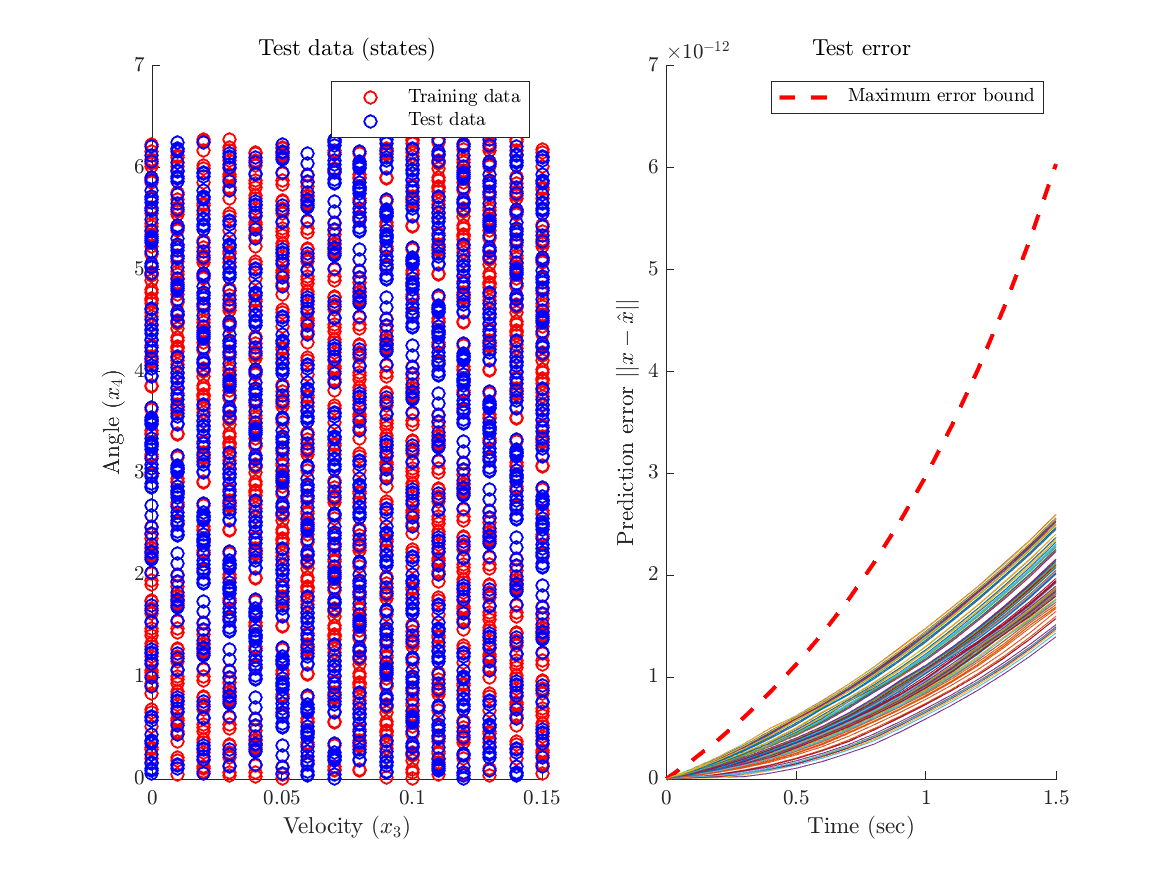
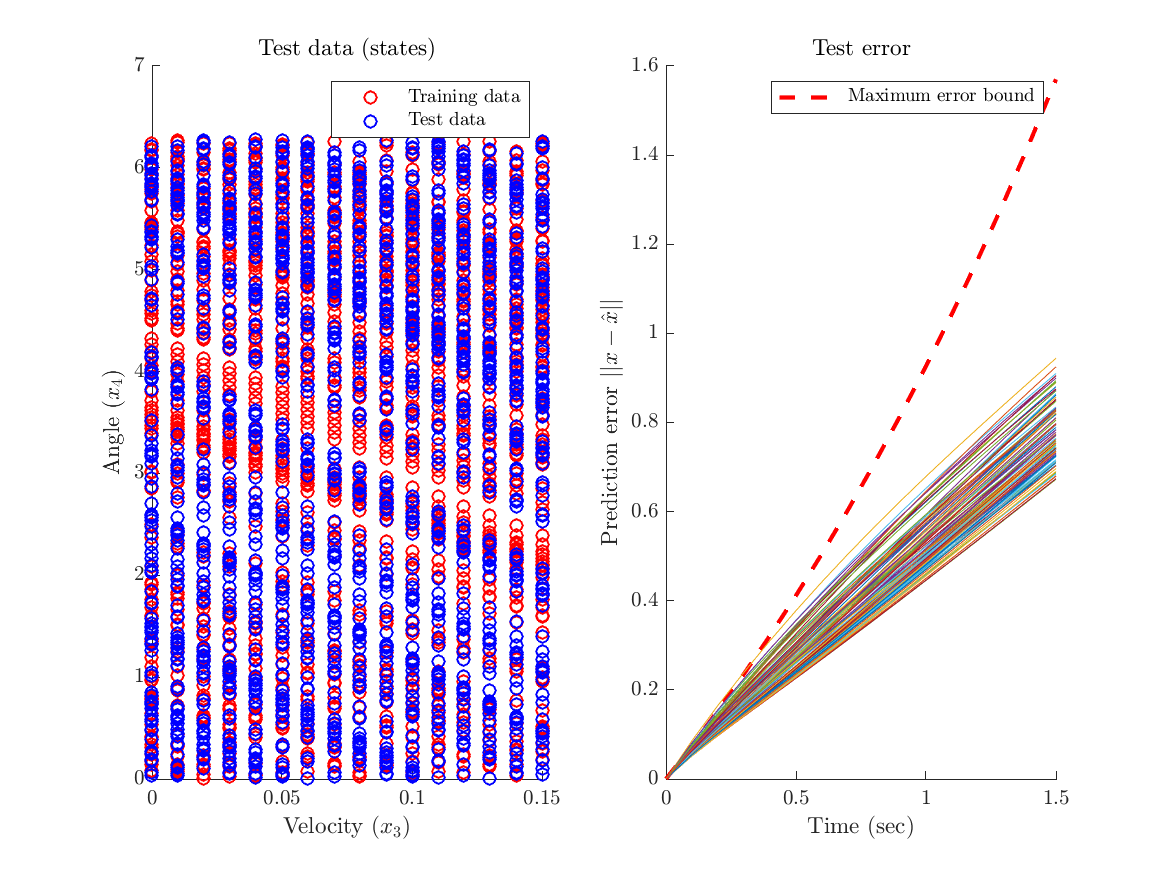
Debug

diff --git a/dubin_learning.m b/dubin_learning.m
@@ -11,15 +11,17 @@ global Ts T_max vm rm am x_bdry
 Ts = 0.1;                                           % Sampling interval
 T_max = 2;
 vm = 0.15;                                          % Maximum velocity
-rm = 3*pi/2;                                        % Maximum yaw rate
+rm = 0.3*3*pi/2;                                        % Maximum yaw rate
 am = 0.1;                                           % Maximum acceleration
+u_lim = [-am am; -rm, rm];
 x_bdry = [-1.6 1.6;-1 1;vm vm;0 2*pi];              % State constraints
 ts = 0.02;
-N_max = ceil(vm/am/Ts);                             % Maximum backup controller horizon
+N_max = ceil(vm/am/Ts)+1;                           % Maximum backup controller horizon
 
 affine_dynamics = @(x) dubin(x);                    % System dynamics, returns [f,g] with x_dot = f(x) + g(x)u
                                                     % State is defined as x = [X,Y,v,theta], u = [a,r]
-backup_controller = @(x) [-am*sign(x(3));rm];        % Backup controller (max brake and max turn)
+backup_controller = @(x) [-am*sign(x(3));rm];       % Backup controller (max brake and max turn rate)
+backup_dynamics = @(x) cl_dynamics(x, affine_dynamics, backup_controller);
 controller_process = @(u) u;
 stop_crit1 = @(t,x)(abs(x(3))<=0);                  % Stop if velocity is zero
 sim_dynamics = @(x,u) dubin_sim(x,u);               % System dynamics used for simulation
@@ -28,9 +30,12 @@ initial_condition = @() x_bdry(:,1)+...
     (x_bdry(:,2)-x_bdry(:,1)).*rand(4,1);           % Sample random initial value of x inside x_bdry
 
 %Koopman learning parameters:
-dubin_dictionary;                                   % Generate dictionary for Dubin's car system
+%dubin_dictionary;                                  % Generate dictionary for Dubin's car system
 func_dict = @(x) dubin_D(x(1),x(2),x(3),x(4));      % Function dictionary, returns [D,J] = [dictionary, jacobian of dictionary]
 n_samples = 100;                                    % Number of initial conditions to sample for training
+gather_data = false;
+tune_fit = false;
+fname = 'dubin';
 
 %Collision avoidance experiment parameters:
 global T_exp obs r
@@ -38,7 +43,7 @@ x0 = [0;0;vm;0];                                    % Initial condition for expe
 x_des = [1;0;0;0];                                  % Desired state for legacy controller
 mpc_horizon = 20;                                   % Time horizon of legacy controller
 legacy_controller = @(x) MIQP_MPC_v3(x,x_des,20);   % Legacy controller (MPC)
-options = qpOASES_options('printLevel',0);          % Solver options for supervisory controller
+options = optimoptions('quadprog','Display','none');% Solver options for supervisory controller
 T_exp = 10;                                         % Experiment length
 alpha = 2;                                          % CBF strengthening parameter
 obs = [0.5;0];                                      % Center of circular obstacle
@@ -46,10 +51,30 @@ r = 0.05;                                           % Radius of circular obstacl
 barrier_func = @(x) round_obs(x,obs,r);             % Barrier function
 
 %% Learn approximated discrete-time Koopman operator:
+if gather_data == true
+    [T_train, X_train] = collect_data(sim_dynamics, sim_process, backup_controller, controller_process, stop_crit1, initial_condition, n_samples, ts); 
+    plot_training_data(X_train,n_samples)
 
-[T_train, X_train] = collect_data(sim_dynamics, sim_process, backup_controller, controller_process, stop_crit1, initial_condition, n_samples, ts); 
-[K, C] = edmd(X_train, func_dict);
-K_pows = precalc_matrix_powers(N_max,K);
+    save(['data/' fname '_train_data.mat'], 'T_train','X_train');
+else
+    load(['data/' fname '_train_data.mat']);
+end
+
+[Z, Z_p] = lift_data(X_train, func_dict);
+Z_p = Z_p(2:end,:);
+if tune_fit == true
+    [K, obj_vals, lambda_tuned] = edmd(Z, Z_p, 'lasso', true, [],true, 5);
+    save(['data/' fname 'lambda_tuned.mat'], 'lambda_tuned');
+else
+    load(['data/' fname 'lambda_tuned.mat']);
+    [K, obj_vals, ~] = edmd(Z, Z_p, 'lasso', true, lambda_tuned,false, 0);
+end
+K = [zeros(1,size(Z,1)); K];
+K(1,1) = 1;
+
+%% Prepare necessary matrices and calculate error bounds:
+[~,~,C] = func_dict(X_train{1}(1,:));
+[K_pows, CK_pows] = precalc_matrix_powers(N_max,K,C);
 
 %L = calc_lipschitz(4,2, affine_dynamics, con1); 
 L = 0;  
@@ -66,10 +91,32 @@ plot_test_fit(X_train, X_test, K_pows, C, func_dict, error_bound);
 
 %% Evaluate Koopman based CBF safety filter:
 
-supervisory_controller = @(x,u0,N) koopman_qp_cbf_static(x, u0, N, affine_dynamics, barrier_func, alpha, func_dict, K_pows, C, options); 
+%supervisory_controller = @(x,u0,N) koopman_qp_cbf_static(x, u0, N, affine_dynamics, barrier_func, alpha, func_dict, K_pows, C, options); 
+supervisory_controller = @(x, u0, N) koopman_qp_cbf_obs(x, u0, N, affine_dynamics, backup_dynamics, barrier_func, alpha, func_dict, CK_pows, options, u_lim, 4, 2);
 [x_rec, u_rec, u0_rec] = run_experiment(x0, sim_dynamics, sim_process, legacy_controller, supervisory_controller); 
-plot_experiment(x_rec, u_rec, u0_rec, func_dict, K_pows, C);
+plot_experiment(x_rec, u_rec, u0_rec, func_dict, CK_pows);
 
 %% Save learned matrices to use in other experiments:
-close all;
+%close all;
 save('data/dubin_learned_koopman.mat','K_pows','C','N_max')
+
+%% Supporting functions:
+function plot_training_data(X,n_samples)
+    global Ts
+    n_plot = min(n_samples,100);
+    n_rows = 10;
+    n_cols = 10;
+    figure(1)
+    for i = 1 : n_plot
+        tt = 0:Ts:(size(X{i},1)-1)*Ts;
+        subplot(n_rows,n_cols,i)
+        hold on
+        plot(tt,X{i}(:,1),'r')
+        plot(tt,X{i}(:,2),'b')   
+        plot(tt,X{i}(:,3),':r')
+        plot(tt,X{i}(:,4),':b')
+        if i == 3
+            title('State data')
+        end
+    end
+end

diff --git a/utils/plot_experiment.m b/utils/plot_experiment.m
@@ -1,9 +1,9 @@
-function plot_experiment(x_rec, u_rec, u0_rec, func_dict, K_pows, C)
+function plot_experiment(x_rec, u_rec, u0_rec, func_dict, CK_pows)
 
     global Ts am T_exp obs r
     
     for i=1:round(T_exp/Ts)
-        figure(3)
+        figure(4)
         clf
         hold on
         draw_circle(obs(1),obs(2),r);
@@ -14,7 +14,7 @@ function plot_experiment(x_rec, u_rec, u0_rec, func_dict, K_pows, C)
         N = ceil(x(3)/am/Ts);
         xx = zeros(N,4);
         for j=1:N
-            xx(j,:)=(C*K_pows{j}*d)';
+            xx(j,:)=(CK_pows{j}*d)';
         end
         for j = 1:N
             plot(xx(j,1),xx(j,2),'b*');

diff --git a/utils/plot_test_fit.m b/utils/plot_test_fit.m
@@ -12,7 +12,7 @@ function plot_test_fit(X_train,X_test, K_pows, C, func_dict, error_bound)
         X_hat{i} = z;
     end
         
-    fig = figure(2);
+    fig = figure(3);
     set(groot,'defaulttextinterpreter','latex');  
     set(groot, 'defaultAxesTickLabelInterpreter','latex');  
     set(groot, 'defaultLegendInterpreter','latex');

diff --git a/utils/plot_training_fit.m b/utils/plot_training_fit.m
@@ -12,7 +12,7 @@ function plot_training_fit(X, K_pows, C, func_dict, error_bound)
         X_hat{i} = x_hat';
     end
         
-    fig = figure(1);
+    fig = figure(2);
     set(groot,'defaulttextinterpreter','latex');  
     set(groot, 'defaultAxesTickLabelInterpreter','latex');  
     set(groot, 'defaultLegendInterpreter','latex');

diff --git a/utils/run_experiment.m b/utils/run_experiment.m
@@ -13,7 +13,7 @@ function [x_rec, u_rec, u0_rec] = run_experiment(x0, sim_dynamics, sim_process, 
         
         N = ceil(x(3)/am/Ts);
         u = supervisory_controller(x,u0,N);
-        
+        disp([u0 u])
         xdot = @(t,x) sim_dynamics(x,u);
         [~, x_tmp] = ode45(xdot,[t,t+Ts],x);
         x = x_tmp(end,:)';

diff --git a/koopman_learning/dubin_D.m b/koopman_learning/dubin_D.m
@@ -3,7 +3,7 @@ function [D,J,C] = dubin_D(x1,x2,x3,x4)
 %    [D,J,C] = DUBIN_D(X1,X2,X3,X4)
 
 %    This function was generated by the Symbolic Math Toolbox version 8.1.
-%    27-Aug-2020 17:54:15
+%    05-Nov-2020 12:00:18
 
 t2 = cos(x4);
 t3 = sin(x4);

diff --git a/dynamics/dubin_sim_process.m b/dynamics/dubin_sim_process.m
@@ -3,4 +3,5 @@ function x = dubin_sim_process(x, ts)
     if abs(x(3))<ts*am/2
         x(3)=0;
     end
+    
 end
